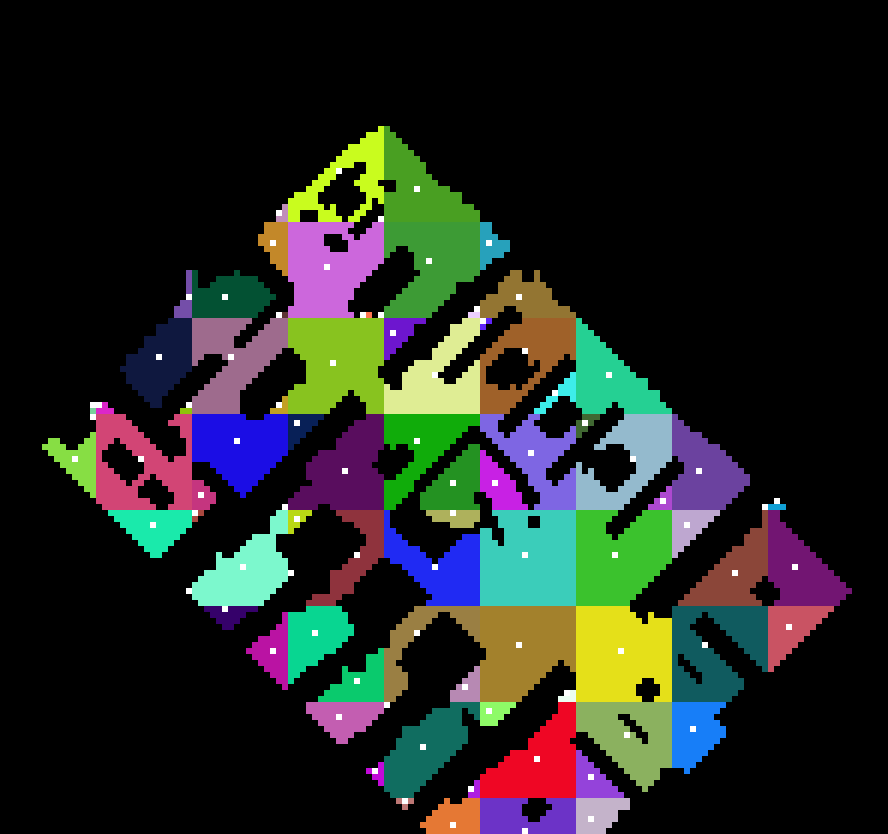
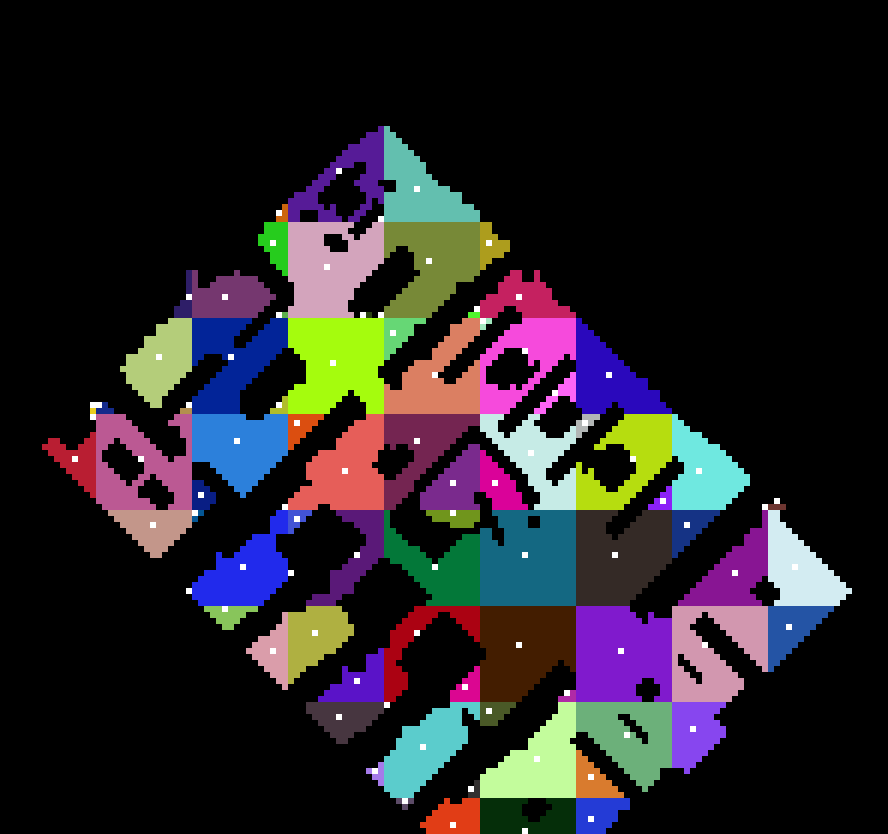
Set a seed for random colour generation - makes it easier to compare images side-by-side

Changed region(s): [[0.0304, 0.1559, 0.973, 1.0]]

diff --git a/src/map/GameMap.java b/src/map/GameMap.java
@@ -279,12 +279,13 @@ public class GameMap {
     public GameMap(String fileName) {    // Loads a map in Vadim's format into data structure
         load(fileName);
         generator = new Random();
+        generator.setSeed(56256902);
     }
 
     public void load(String fileName) {
         try (Scanner sc = new Scanner(new File(fileName))) {
 
-            String st = sc.nextLine();    // Drop first line which is formatted
+            String st = sc.nextLine();     // Drop first line which is formatted
             if (!st.contains("type")) {    // Map is in binary format
                 sc.close();
                 this.loadMap(fileName);
@@ -324,7 +325,7 @@ public class GameMap {
     public void loadMap(String fileName) {
         try (Scanner sc = new Scanner(new File(fileName))) {
 
-            String st = sc.nextLine();            // Number of rows. e.g. height 139
+            String st = sc.nextLine();      // Number of rows. e.g. height 139
             rows = Integer.parseInt(st.substring(7).trim());
             st = sc.nextLine();            // Number of cols. e.g. width 148
             cols = Integer.parseInt(st.substring(6).trim());
@@ -432,7 +433,6 @@ public class GameMap {
     public boolean isOpenInRange(int r, int c, int maxR, int maxC, int gridSize) {
         return (c >= maxC - gridSize && r >= maxR - gridSize && r < maxR && c < maxC && squares[r][c] == EMPTY_CHAR);
     }
-
 
     public boolean isInRange(int r, int c, int maxR, int maxC, int gridSize) {
         return (c >= maxC - gridSize && r >= maxR - gridSize && r < maxR && c < maxC);
